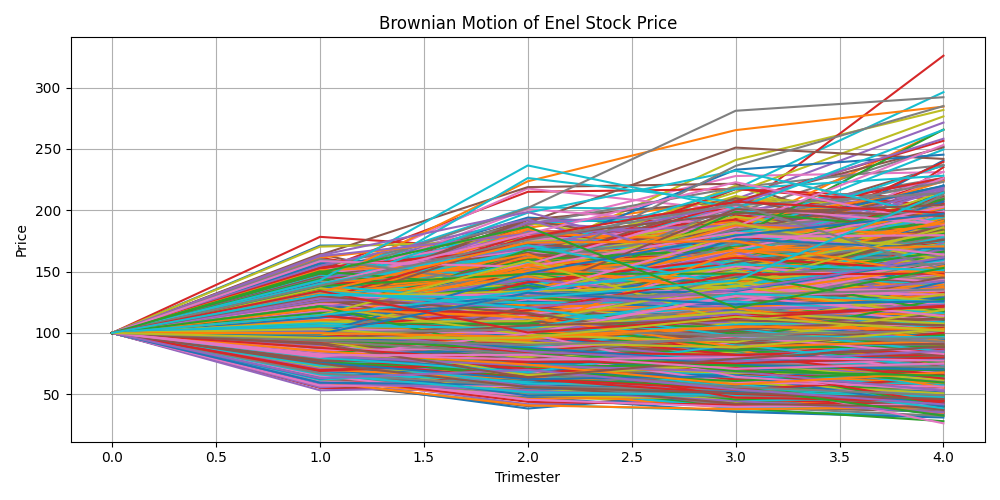
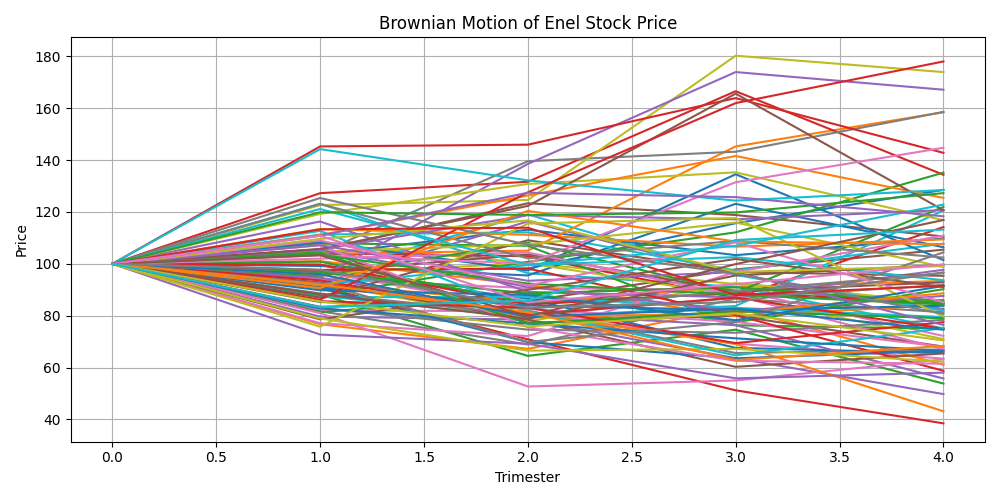
implmeented vector rates and delta_t is not fixed anymore

diff --git a/main.py b/main.py
@@ -8,6 +8,7 @@ import matplotlib.pyplot as plt
 from discount_curve import calculate_curve, getContinousInterestRate
 from montecarlo import simulate_paths_and_coupon
 
+from FinDates.daycount import yearfrac #todo check implementation of this yearfrac, I assumed them to be correct _tom
 
 def main(N=1000000):        
     print("--------------------------------Question 1--------------------------------")
@@ -18,10 +19,13 @@ def main(N=1000000):
     last_date = discount_curve_schedule.index[-1]
     
     # Get continuous interest rate for T=4 years using the last discount factor
-    r_4y = -np.log(D_0_4) / 4.0 #todo fix with continous vector instead of fixed value
-    
+    #r_4y = -np.log(D_0_4) / 4.0 #todo fix with continous vector instead of fixed value
+        
+    seed=12
+
+
     print(f"\nLast date in discount curve: {last_date.date()}")
-    print(f"Continuous interest rate for T=4 years: {r_4y:.6%}")
+    #print(f"Continuous interest rate for T=4 years: {r_4y:.6%}")
     print(f"Discount factor for T=4 years: {D_0_4:.6f}")
     
     # All three components of the pricing formula:
@@ -31,14 +35,35 @@ def main(N=1000000):
     
     # Spread component (spread * dt * sum of discount factors)
     spread = 0.03
-    dt = 0.25 #todo compute actual dates
-    sum_dfs = discount_curve_schedule.sum()
-    pv_spread = sum_dfs * spread * dt 
+#    dt = 0.25 #todo compute actual dates
+
+
+    dates = discount_curve_schedule.index
+    dts = [yearfrac(dates[i-1],dates[i], "ACT/360") for i in range (1,len(dates))]
+
+    dtSettle = pd.Timestamp("2023-02-02")
+    dt_first = yearfrac(dtSettle, dates[0], "ACT/360")
+    dts = [dt_first] + dts  # ora dts ha 16 elementi come discount_curve_schedule
+
+    pv_spread = spread * sum(df * dt for df, dt in zip(discount_curve_schedule.values, dts))
+    
+
+    D_vals = discount_curve_schedule.values  # considering 16 discount factors
+    D_prev = np.concatenate([[1.0], D_vals[:-1]]) #todo not uqite sure on the 1 considering the contract starts 2 days after the stipulated date
+
+    dts_years = np.array(dts)
+
+    r_forward_quarterly = -np.log(D_vals / D_prev) / dts_years  
+
+
+
     
     # Coupon component (Monte Carlo simulation)
 
-    pv_coupon, _ = simulate_paths_and_coupon(r=r_4y, D_0_4=D_0_4, N_sim=100000) 
+    pv_coupon, _ = simulate_paths_and_coupon(r_vec=r_forward_quarterly, D_0_4=D_0_4, N_sim=100000, seed=seed) 
     
+
+
     # Final equaation 
     Upfront_X = pv_euribor + pv_spread - pv_coupon
     
@@ -49,13 +74,13 @@ def main(N=1000000):
     print(f"Upfront X%: {Upfront_X:.4f} ({Upfront_X * 100:.2f}%)")
 
     print("--------------------------------Question 2--------------------------------")
-    pv_coupon_benel, _ = simulate_paths_and_coupon(r=r_4y, D_0_4=D_0_4,S0_enel=101, N_sim=100000) 
+    pv_coupon_benel, _ = simulate_paths_and_coupon(r_vec=r_forward_quarterly, D_0_4=D_0_4,S0_enel=101, N_sim=100000,seed=seed) 
     
     # Final equaation for Bumped enel
     Upfront_X_benel = pv_euribor + pv_spread - pv_coupon_benel
 
 
-    pv_coupon_baxa, _ = simulate_paths_and_coupon(r=r_4y, D_0_4=D_0_4,S0_axa=201, N_sim=100000) 
+    pv_coupon_baxa, _ = simulate_paths_and_coupon(r_vec=r_forward_quarterly, D_0_4=D_0_4,S0_axa=201, N_sim=100000, seed=seed) 
     
     # Final equaation for Bumped enel
     Upfront_X_baxa = pv_euribor + pv_spread - pv_coupon_baxa
@@ -69,38 +94,42 @@ def main(N=1000000):
     print(f"Delta Upfront X% for Axa (S0=201): {delta_axa:.4f} ({delta_axa * 100:.2f}%)")
 
 
-    bumped_discounts = []
-    T_values = np.arange(0.25, 4.25, 0.25)
-    for discount, T in zip(discount_curve_schedule.values, T_values):
-        r_bumped = -np.log(discount) / T + 0.0001  
-        D_bumped = np.exp(-r_bumped * T)  
-        bumped_discounts.append(D_bumped)
+    T_values = np.array([yearfrac(dtSettle, d, "ACT/365 FIXED") for d in dates]) #365 for interpolation purposes
+
+
+    bumped_discounts = np.array([
+    np.exp(-(-np.log(D) / T + 0.0001) * T)
+    for D, T in zip(D_vals, T_values)])
         
-    D_0_4_bumped = bumped_discounts[-1]  # Use the last bumped discount factor for T=4 years
-    r_4y_bumped = -np.log(D_0_4_bumped) / 4.0
+    D_0_4_bumped = bumped_discounts[-1]
+
+    D_prev_bumped = np.concatenate([[1.0], bumped_discounts[:-1]])
+
+    r_forward_quarterly_bumped = -np.log(bumped_discounts / D_prev_bumped) / dts_years
+
 
     # Euribor component (1 - D_0_4)
     pv_euribor_bumped = 1.0 - D_0_4_bumped
     
     # Spread component (spread * dt * sum of discount factors)
     spread = 0.03
-    dt = 0.25
-    sum_dfs_bumped = sum(bumped_discounts)
-    pv_spread_bumped = sum_dfs_bumped * spread * dt
+    pv_spread_bumped  = spread * sum(df * dt for df, dt in zip(bumped_discounts, dts))
+
     
     # Coupon component (Monte Carlo simulation)
 
-    pv_coupon_bumped, _ = simulate_paths_and_coupon(r=r_4y_bumped, D_0_4=D_0_4_bumped, N_sim=100000) 
+    pv_coupon_bumped, _ = simulate_paths_and_coupon(r_vec=r_forward_quarterly_bumped, D_0_4=D_0_4_bumped, N_sim=100000, seed=seed) 
     
     # Final equaation 
     Upfront_X_bumped = pv_euribor_bumped + pv_spread_bumped - pv_coupon_bumped
-    
+    dv01 = Upfront_X_bumped - Upfront_X
+
     print("\n--- PRICING ---")
     print(f"PV Euribor bumped: {pv_euribor_bumped:.4f}")
     print(f"PV Spread bumped:  {pv_spread_bumped:.4f}")
     print(f"PV Coupon bumped:  {pv_coupon_bumped:.4f}")
     print(f"Upfront bumped X%: {Upfront_X_bumped:.4f} ({Upfront_X_bumped * 100:.2f}%)")
-    print(f"Delta Upfront X% for 1bp bump: {Upfront_X_bumped - Upfront_X:.6f} ({(Upfront_X_bumped - Upfront_X) * 100:.2f}%)")
+    print(f"Delta Upfront X% for 1bp bump: {dv01:.6f} ({(Upfront_X_bumped - Upfront_X) * 100:.2f}%)")
 
 
     print("\n--------------------------------Question 3--------------------------------")
@@ -110,7 +139,8 @@ def main(N=1000000):
     axa_NoF = abs(delta_axa)*N
     dv01_upfront = (Upfront_X_bumped - Upfront_X)
 
-    dv01_swap_1eur = sum_dfs * 0.0001 * dt
+    dv01_swap_1eur = sum(df * dt for df, dt in zip(discount_curve_schedule.values, dts))  * 0.0001
+
     swap_notional = N*abs(dv01_upfront) / dv01_swap_1eur
     
     print(f"Hedge Delta ENEL: Buy {enel_NoF:.6f} shares per {N} EUR notional")

diff --git a/montecarlo.py b/montecarlo.py
@@ -2,10 +2,10 @@ import numpy as np
 
 BDAYS_YEAR = 256  # business days per year (consistent with Utilities.py)
 
-def simulate_paths_and_coupon(r, D_0_4, S0_enel=100.0, S0_axa=200.0,
+def simulate_paths_and_coupon(r_vec, D_0_4, S0_enel=100.0, S0_axa=200.0,
                               vol_enel=0.162, vol_axa=0.200,
                               div_enel=0.025, div_axa=0.029,
-                              rho=0.40, n_monitoring=4, alpha=0.95, N_sim=10000):
+                              rho=0.40, n_monitoring=4, alpha=0.95, N_sim=10000, seed=None):
     """
     Daily GBM simulation (256 business days/year) with N=4 annual monitoring dates.
 
@@ -25,9 +25,13 @@ def simulate_paths_and_coupon(r, D_0_4, S0_enel=100.0, S0_axa=200.0,
     monitor_prices : np.ndarray, shape (2, n_monitoring+1, N_sim)
         Prices at t0 and at each of the 4 annual monitoring dates.
     """
+    if seed is not None:
+        np.random.seed(seed)
+
 
     dt = 1.0 / BDAYS_YEAR          # one business day
     steps_per_year = BDAYS_YEAR
+    steps_per_quarter= BDAYS_YEAR // 4
     total_steps = n_monitoring * steps_per_year   # 4 * 256 = 1024
 
     corr_matrix = np.array([[1.0, rho],
@@ -43,6 +47,8 @@ def simulate_paths_and_coupon(r, D_0_4, S0_enel=100.0, S0_axa=200.0,
                   np.full(N_sim, S0_axa)], dtype=float)
 
     for step in range(1, total_steps + 1):
+        quarter_id = min((step - 1) // steps_per_quarter, len(r_vec) - 1)
+        r = r_vec[quarter_id]
         Z = np.random.multivariate_normal([0.0, 0.0], corr_matrix, N_sim).T
 
         S[0] *= np.exp((r - div_enel - 0.5 * vol_enel**2) * dt
@@ -69,7 +75,8 @@ def simulate_paths_and_coupon(r, D_0_4, S0_enel=100.0, S0_axa=200.0,
 
     return discounted_coupon, monitor_prices
 import matplotlib.pyplot as plt
-prices = simulate_paths_and_coupon(r=0.02, D_0_4=0.95)[1]
+r_test = np.full(16, 0.02)
+prices = simulate_paths_and_coupon(r_vec=r_test, D_0_4=0.95, N_sim=100)[1]
 prices_enel = prices[0, :, :]
 prices_axa = prices[1, :, :]
 
